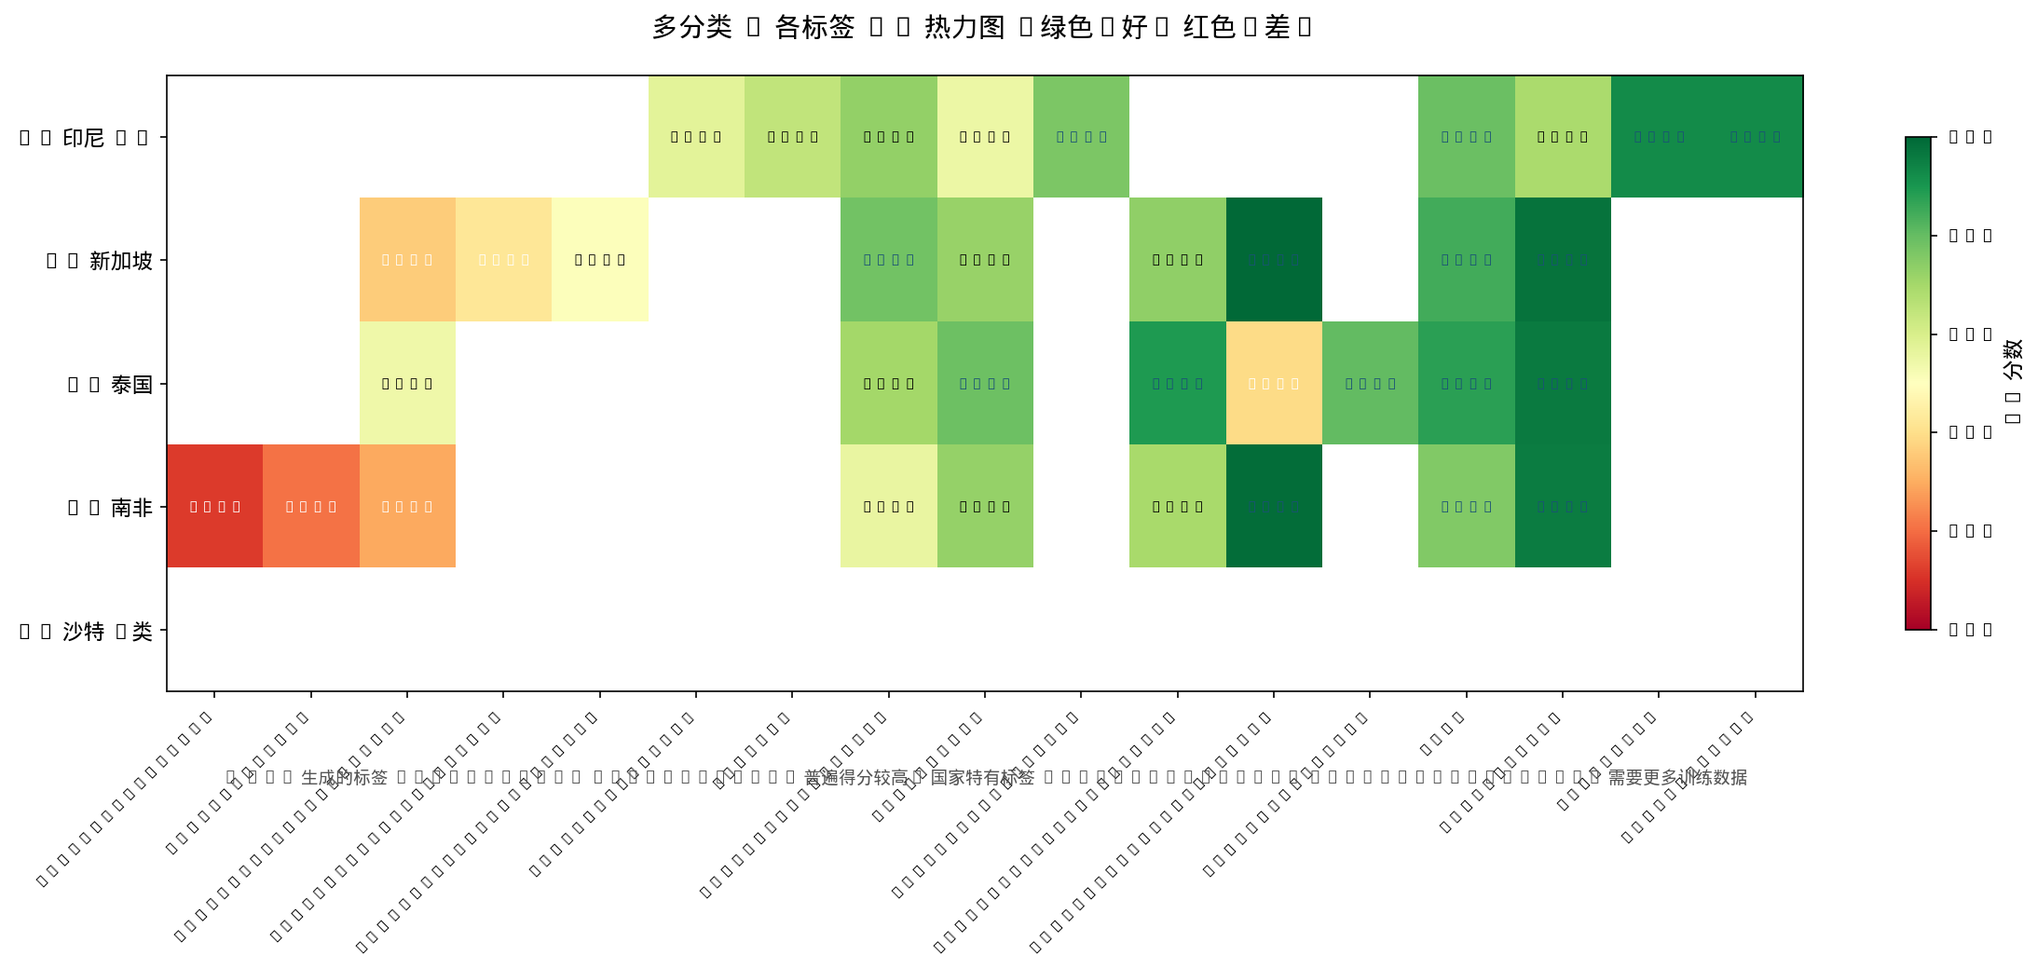
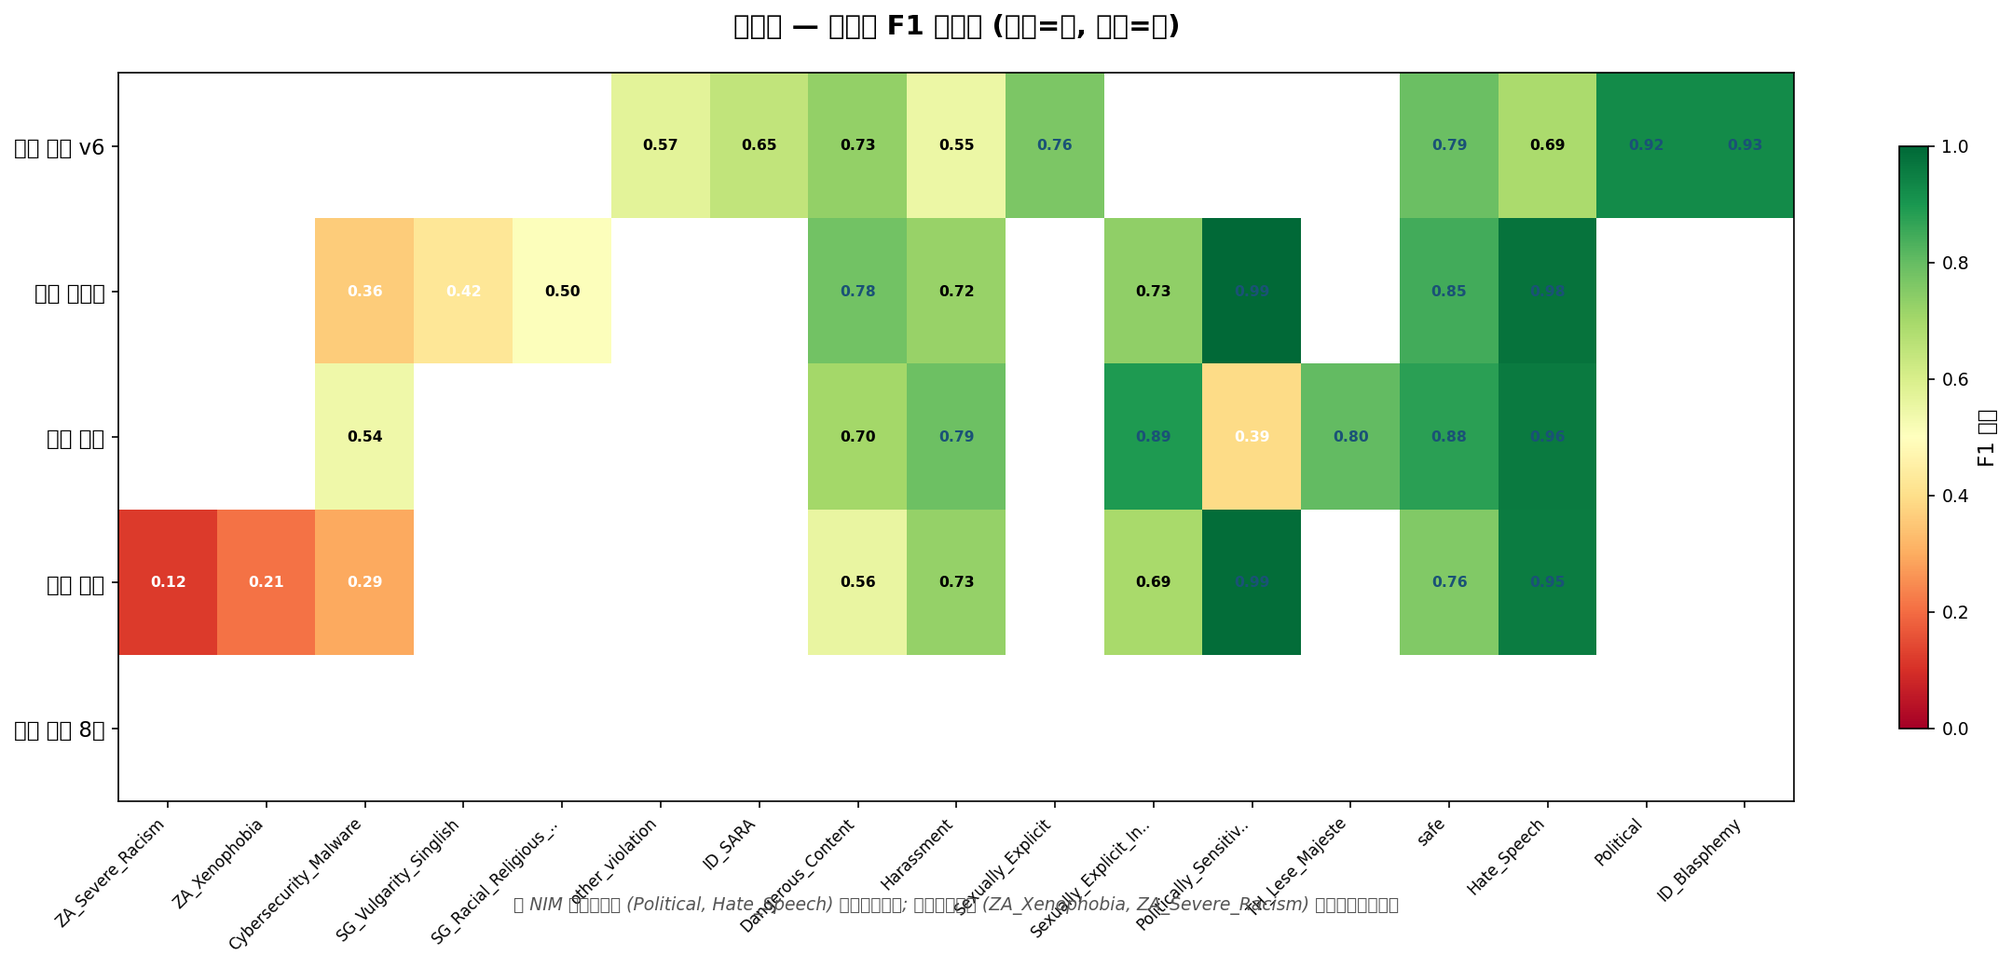
Fix Chinese font rendering in charts

diff --git a/charts/make_charts_cn.py b/charts/make_charts_cn.py
@@ -1,0 +1,385 @@
+#!/usr/bin/env python3
+"""生成所有模型对比图表 — 中文版"""
+import json, os, numpy as np, pandas as pd
+import matplotlib
+matplotlib.use('Agg')
+import matplotlib.pyplot as plt
+import matplotlib.font_manager as fm
+
+# Font stack: DejaVu for Latin, Droid for CJK
+fm.fontManager.addfont('/usr/share/fonts/truetype/droid/DroidSansFallbackFull.ttf')
+plt.rcParams['font.sans-serif'] = ['DejaVu Sans', 'Droid Sans Fallback']
+plt.rcParams['font.family'] = 'sans-serif'
+plt.rcParams['font.size'] = 9
+plt.rcParams['axes.unicode_minus'] = False
+
+OUT = "/home/ninini/Agents/Colloation_data/Training/model_reports/charts"
+os.makedirs(OUT, exist_ok=True)
+
+# ── Data ──────────────────────────────────────────
+BIN_DIR = "/home/ninini/Agents/Colloation_data/Training/binary_8countries"
+COUNTRIES = ['SA','BR','MX','ID','SG','TH','TR','ZA']
+C_NAMES = {'SA':'沙特','BR':'巴西','MX':'墨西哥','ID':'印尼','SG':'新加坡','TH':'泰国','TR':'土耳其','ZA':'南非'}
+
+ft, lr = {}, {}
+for c in COUNTRIES:
+    for store, method in [(ft,'fullft'),(lr,'lora')]:
+        p = f"{BIN_DIR}/{c}_{method}/metrics.json"
+        if os.path.exists(p): store[c] = json.load(open(p))
+
+ml_data = json.load(open(f"{'/home/ninini/Agents/Colloation_data/Training/multi_lora'}/all_metrics.json"))
+ad_data = json.load(open(f"{'/home/ninini/Agents/Colloation_data/Training/adapter'}/all_metrics.json"))
+
+mc = {}
+for code, path in [
+    ('🇮🇩 印尼 v6','/home/ninini/Agents/Colloation_data/Training/id_data/models_v6/final_results.json'),
+    ('🇸🇬 新加坡','/home/ninini/Agents/Colloation_data/Training/sg_data/models/results.json'),
+    ('🇹🇭 泰国','/home/ninini/Agents/Colloation_data/Training/th_data/models/results.json'),
+    ('🇿🇦 南非','/home/ninini/Agents/Colloation_data/Training/za_data/models/results.json'),
+]:
+    if os.path.exists(path): mc[code] = json.load(open(path))
+
+sa_best = json.load(open(f"{'/home/ninini/Agents/Colloation_data/Training/sa_multiclass'}/model_8class_fullft_20260610_113559/metrics.json"))
+mc['🇸🇦 沙特 8类'] = {'calibrated_f1': 0.829, 'per_class': sa_best}
+
+# ════════════════════════════════════════════════════
+# 图1: 二分类 — 8国 × 4方法 对比
+# ════════════════════════════════════════════════════
+fig, ax = plt.subplots(figsize=(18, 8))
+x = np.arange(len(COUNTRIES)); w = 0.2
+colors = ['#2ecc71','#3498db','#9b59b6','#e74c3c']
+labels_cn = ['全量微调 (Full FT)','LoRA 微调','Multi-LoRA 共享','Adapter']
+for i, (store, label, color) in enumerate([(ft,labels_cn[0],colors[0]),(lr,labels_cn[1],colors[1]),
+    (ml_data,labels_cn[2],colors[2]),(ad_data,labels_cn[3],colors[3])]):
+    vals = []
+    for c in COUNTRIES:
+        if c in store:
+            d = store[c] if isinstance(store[c],dict) else store[c]
+            vals.append(d.get('macro_f1',0))
+        else: vals.append(0)
+    bars = ax.bar(x + i*w, vals, w, label=label, color=color, edgecolor='white', linewidth=0.5)
+    for bar, v in zip(bars, vals):
+        if v > 0: ax.text(bar.get_x()+bar.get_width()/2, bar.get_height()+0.01, f'{v:.3f}',
+                         ha='center', va='bottom', fontsize=7, fontweight='bold')
+
+ax.set_xticks(x + 1.5*w)
+ax.set_xticklabels([C_NAMES[c] for c in COUNTRIES], fontsize=11)
+ax.set_ylabel('Macro F1', fontsize=13, fontweight='bold')
+ax.set_title('二分类模型对比 — 8 个国家 × 4 种训练方法', fontsize=15, fontweight='bold', pad=20)
+ax.legend(loc='lower right', fontsize=10, ncol=2)
+ax.set_ylim(0.60, 1.0)
+ax.grid(axis='y', alpha=0.3)
+ax.spines['top'].set_visible(False); ax.spines['right'].set_visible(False)
+
+# 添加解释
+ax.text(0.02, 1.12, '📊 全量微调 (Full FT) 在所有国家都表现最优，平均领先 LoRA +0.044',
+        transform=ax.transAxes, fontsize=10, color='#555', fontstyle='italic')
+ax.text(0.02, 1.07, '   新加坡 (SG) 的二分类准确率最高 (0.919)，得益于数据量大且 Singlish 特征明显',
+        transform=ax.transAxes, fontsize=10, color='#555', fontstyle='italic')
+
+plt.tight_layout()
+plt.savefig(f'{OUT}/01_binary_comparison_cn.png', dpi=150, bbox_inches='tight')
+plt.close()
+print("✅ 图1: 二分类对比")
+
+# ════════════════════════════════════════════════════
+# 图2: 多分类 — F1 排名
+# ════════════════════════════════════════════════════
+fig, ax = plt.subplots(figsize=(12, 6))
+mc_names = list(mc.keys())
+mc_f1s = [mc[k].get('calibrated_f1', mc[k].get('calibrated_macro_f1', mc[k].get('macro_f1',0))) for k in mc_names]
+mc_lbls = [mc[k].get('labels', mc[k].get('n_labels','?')) for k in mc_names]
+colors_mc = ['#27ae60','#3498db','#f39c12','#9b59b6','#e74c3c']
+
+bars = ax.barh(range(len(mc_names)), mc_f1s, color=colors_mc[:len(mc_names)], height=0.55, edgecolor='white')
+for i, (bar, v, lbl) in enumerate(zip(bars, mc_f1s, mc_lbls)):
+    ax.text(bar.get_width() + 0.01, bar.get_y()+bar.get_height()/2, f'{v:.3f}',
+            va='center', fontsize=14, fontweight='bold', color='#2c3e50')
+    ax.text(0.02, bar.get_y()+bar.get_height()/2, f'{mc_names[i]}  ({lbl} 类, {v*100:.1f}%)',
+            va='center', fontsize=11, color='white', fontweight='bold')
+ax.set_xlim(0, max(mc_f1s)*1.3)
+ax.set_title('多分类模型 — Macro F1 排名', fontsize=15, fontweight='bold', pad=15)
+ax.grid(axis='x', alpha=0.3)
+ax.spines['top'].set_visible(False); ax.spines['right'].set_visible(False); ax.spines['left'].set_visible(False)
+ax.set_yticks([])
+
+# 解释
+ax.text(0.02, -0.12, '📊 泰国 (TH) 的 F1 意外高于印尼 (ID)，可能是因为标签更少 (8 vs 9) 且数据噪音更低',
+        transform=ax.transAxes, fontsize=10, color='#555', fontstyle='italic')
+ax.text(0.02, -0.18, '   沙特 (SA) 使用全量微调 (无 LoRA) 达到最高分，但需要 1.1GB 模型',
+        transform=ax.transAxes, fontsize=10, color='#555', fontstyle='italic')
+
+plt.tight_layout()
+plt.savefig(f'{OUT}/02_multiclass_ranking_cn.png', dpi=150, bbox_inches='tight')
+plt.close()
+print("✅ 图2: 多分类排名")
+
+# ════════════════════════════════════════════════════
+# 图3: 多分类 — Per-Class F1 热力图
+# ════════════════════════════════════════════════════
+all_labels = set()
+for k, d in mc.items():
+    if 'per_class' in d:
+        for l in d['per_class']:
+            if isinstance(d['per_class'][l], dict) and 'f1-score' in d['per_class'][l]:
+                if l not in ['accuracy','macro avg','weighted avg']: all_labels.add(l)
+
+label_avg = {}
+for l in all_labels:
+    vals = []
+    for k, d in mc.items():
+        if 'per_class' in d and l in d['per_class'] and isinstance(d['per_class'][l], dict):
+            vals.append(d['per_class'][l].get('f1-score', 0))
+    if vals: label_avg[l] = np.mean(vals)
+sorted_labels = sorted(label_avg.keys(), key=lambda x: label_avg[x])
+
+heatmap_data = []
+for k in mc_names:
+    d = mc[k]; row = []
+    for l in sorted_labels:
+        if 'per_class' in d and l in d['per_class'] and isinstance(d['per_class'][l], dict):
+            row.append(d['per_class'][l].get('f1-score', 0))
+        else: row.append(np.nan)
+    heatmap_data.append(row)
+
+# Shorten labels for display
+short_labels = []
+for l in sorted_labels:
+    if len(l) > 22: short_labels.append(l[:20]+'..')
+    else: short_labels.append(l)
+
+fig, ax = plt.subplots(figsize=(16, 7))
+im = ax.imshow(heatmap_data, cmap='RdYlGn', aspect='auto', vmin=0, vmax=1)
+ax.set_xticks(range(len(sorted_labels)))
+ax.set_xticklabels(short_labels, rotation=45, ha='right', fontsize=8)
+ax.set_yticks(range(len(mc_names)))
+ax.set_yticklabels(mc_names, fontsize=11)
+for i in range(len(mc_names)):
+    for j in range(len(sorted_labels)):
+        v = heatmap_data[i][j]
+        if not np.isnan(v):
+            color = 'white' if v < 0.45 else ('black' if v < 0.75 else '#1a5276')
+            ax.text(j, i, f'{v:.2f}', ha='center', va='center', fontsize=7.5, color=color, fontweight='bold')
+cbar = plt.colorbar(im, ax=ax, shrink=0.8)
+cbar.set_label('F1 分数', fontsize=11)
+
+ax.set_title('多分类 — 各标签 F1 热力图 (绿色=好, 红色=差)', fontsize=14, fontweight='bold', pad=20)
+ax.text(0.5, -0.15, '📊 NIM 生成的标签 (Political, Hate_Speech) 普遍得分较高; 国家特有标签 (ZA_Xenophobia, ZA_Severe_Racism) 需要更多训练数据',
+        transform=ax.transAxes, fontsize=9, color='#555', fontstyle='italic', ha='center')
+
+plt.tight_layout()
+plt.savefig(f'{OUT}/03_multiclass_heatmap_cn.png', dpi=150, bbox_inches='tight')
+plt.close()
+print("✅ 图3: 热力图")
+
+# ════════════════════════════════════════════════════
+# 图4: 印尼模型演进
+# ════════════════════════════════════════════════════
+fig, ax = plt.subplots(figsize=(11, 7))
+versions = ['v1\n全量微调\n8类/38K', 'v1\nLoRA\n8类/38K', 'v2\nLSD蒸馏\n9类/38K', 'v5\n2种子集成\n9类/42K', 'v6\n标签订阅\n9类/46K']
+f1_vals = [0.692, 0.690, 0.684, 0.709, 0.732]
+colors_id = ['#95a5a6','#95a5a6','#3498db','#f39c12','#27ae60']
+bars = ax.bar(range(len(versions)), f1_vals, color=colors_id, width=0.55, edgecolor='white', linewidth=1.5)
+
+for bar, v, ver in zip(bars, f1_vals, versions):
+    ax.text(bar.get_x()+bar.get_width()/2, bar.get_height()+0.003, f'{v:.3f}',
+            ha='center', fontsize=13, fontweight='bold')
+
+ax.set_xticks(range(len(versions)))
+ax.set_xticklabels(versions, fontsize=9, linespacing=1.2)
+ax.set_ylabel('Macro F1', fontsize=12, fontweight='bold')
+ax.set_title('🇮🇩 印尼 (ID) 多分类模型演进路线', fontsize=15, fontweight='bold', pad=15)
+ax.set_ylim(0.65, 0.78)
+ax.grid(axis='y', alpha=0.3)
+ax.spines['top'].set_visible(False); ax.spines['right'].set_visible(False)
+
+# Annotations
+ax.annotate('+2,500 ID_SARA\nNIM 生成数据', xy=(3, 0.709), xytext=(1, 0.765),
+            arrowprops=dict(arrowstyle='->', color='#e74c3c', lw=1.5), fontsize=9, color='#c0392b', fontweight='bold')
+ax.annotate('+2,000 Dangerous\n+1,500 Hate_Speech\nNIM 生成数据', xy=(4, 0.732), xytext=(2.5, 0.765),
+            arrowprops=dict(arrowstyle='->', color='#27ae60', lw=1.5), fontsize=9, color='#1e8449', fontweight='bold')
+
+ax.text(0.5, -0.18, '📊 每次 NIM 生成数据补充都带来显著提升: ID_SARA +0.20, Dangerous +0.15, Hate_Speech +0.09',
+        transform=ax.transAxes, fontsize=10, color='#555', fontstyle='italic', ha='center')
+ax.text(0.5, -0.24, '   LSD 蒸馏 (v2) 提升不明显 (-0.008) 且训练速度慢 5 倍，不推荐使用',
+        transform=ax.transAxes, fontsize=10, color='#555', fontstyle='italic', ha='center')
+
+plt.tight_layout()
+plt.savefig(f'{OUT}/04_id_evolution_cn.png', dpi=150, bbox_inches='tight')
+plt.close()
+print("✅ 图4: ID 演进")
+
+# ════════════════════════════════════════════════════
+# 图5: 综合仪表盘 (6 宫格)
+# ════════════════════════════════════════════════════
+fig = plt.figure(figsize=(20, 14))
+gs = fig.add_gridspec(2, 3, hspace=0.35, wspace=0.3)
+
+# 5a: Full FT vs LoRA F1 差距
+ax1 = fig.add_subplot(gs[0, 0])
+diffs = []
+for c in COUNTRIES:
+    if c in ft and c in lr:
+        diffs.append({'country':C_NAMES[c], 'ft':ft[c]['macro_f1'], 'lr':lr[c]['macro_f1'],
+                      'gap':ft[c]['macro_f1']-lr[c]['macro_f1']})
+df_diff = pd.DataFrame(diffs).sort_values('gap', ascending=False)
+colors_gap = ['#e74c3c' if x > 0.03 else '#f39c12' for x in df_diff['gap']]
+bars = ax1.barh(df_diff['country'], df_diff['gap'], color=colors_gap, height=0.6, edgecolor='white')
+for bar, v in zip(bars, df_diff['gap']):
+    ax1.text(bar.get_width() + 0.002, bar.get_y()+bar.get_height()/2, f'{v:.3f}',
+            va='center', fontsize=10, fontweight='bold')
+ax1.axvline(x=0, color='black', linewidth=0.8)
+ax1.set_title('Full FT vs LoRA: 性能差距', fontsize=12, fontweight='bold')
+ax1.set_xlabel('Macro F1 差异 (Full FT - LoRA)')
+ax1.grid(axis='x', alpha=0.3)
+ax1.spines['top'].set_visible(False); ax1.spines['right'].set_visible(False)
+
+# 5b: 模型大小对比
+ax2 = fig.add_subplot(gs[0, 1])
+sizes = {'全量微调 (单国)': 1120, '全量微调 (8国)': 8960,
+         'LoRA 适配器': 3, 'Multi-LoRA 适配器': 2.4,
+         'Multi-LoRA (8国+基座)': 1140, '多分类 LoRA': 2.4}
+cols_size = ['#e74c3c','#c0392b','#3498db','#9b59b6','#8e44ad','#27ae60']
+ax2.barh(list(sizes.keys()), list(sizes.values()), color=cols_size, height=0.55, edgecolor='white')
+for i, (k, v) in enumerate(sizes.items()):
+    label = f'{v} MB' if v < 1000 else f'{v/1000:.1f} GB'
+    ax2.text(v+1 if v<100 else v+50, i, label, va='center', fontsize=10, fontweight='bold')
+ax2.set_title('模型存储大小对比 (MB)', fontsize=12, fontweight='bold')
+ax2.set_xscale('log'); ax2.set_xlim(0.5, 20000)
+ax2.grid(axis='x', alpha=0.3)
+ax2.spines['top'].set_visible(False); ax2.spines['right'].set_visible(False)
+
+# 5c: Clean vs Violation F1
+ax3 = fig.add_subplot(gs[0, 2])
+for c in COUNTRIES:
+    if c in ft:
+        ax3.scatter(ft[c]['clean']['f1'], ft[c]['violation']['f1'], s=150, c='#27ae60',
+                  edgecolors='white', linewidth=1.5, zorder=5)
+        ax3.annotate(f'FT-{C_NAMES[c]}', (ft[c]['clean']['f1'], ft[c]['violation']['f1']),
+                   textcoords="offset points", xytext=(6,4), fontsize=8, fontweight='bold')
+    if c in lr:
+        ax3.scatter(lr[c]['clean']['f1'], lr[c]['violation']['f1'], s=100, c='#3498db',
+                  edgecolors='white', linewidth=1, zorder=4, alpha=0.7)
+ax3.plot([0.5,1],[0.5,1], '--', color='gray', alpha=0.3)
+ax3.set_xlabel('安全内容 F1', fontsize=11); ax3.set_ylabel('违规内容 F1', fontsize=11)
+ax3.set_title('安全 vs 违规: F1 权衡', fontsize=12, fontweight='bold')
+ax3.set_xlim(0.65, 1.0); ax3.set_ylim(0.65, 1.0); ax3.grid(alpha=0.3)
+ax3.spines['top'].set_visible(False); ax3.spines['right'].set_visible(False)
+
+# 5d: 违规召回率 TOP 排名
+ax4 = fig.add_subplot(gs[1, 0])
+viol_all = []
+for c in COUNTRIES:
+    if c in ft: v=ft[c]['violation']; viol_all.append((v['recall'], C_NAMES[c], 'Full FT', v['f1']))
+    if c in lr: v=lr[c]['violation']; viol_all.append((v['recall'], C_NAMES[c], 'LoRA', v['f1']))
+    v=ml_data[c]['violation']; viol_all.append((v['recall'], C_NAMES[c], 'MLoRA', v['f1']))
+viol_all.sort(reverse=True); top10 = viol_all[:12]
+ax4.barh([f'{c}({m})' for _,c,m,_ in top10], [r for r,_,_,_ in top10],
+         color=['#27ae60','#3498db','#9b59b6']*4, height=0.6, edgecolor='white')
+for i, (r,_,_,f1) in enumerate(top10):
+    ax4.text(r+0.005, i, f'召回:{r:.3f}  F1:{f1:.3f}', va='center', fontsize=8)
+ax4.set_title('违规召回率 TOP 12', fontsize=12, fontweight='bold')
+ax4.set_xlim(0.75, 1.05); ax4.grid(axis='x', alpha=0.3)
+ax4.spines['top'].set_visible(False); ax4.spines['right'].set_visible(False)
+
+# 5e: ID v5→v6 每类提升
+ax5 = fig.add_subplot(gs[1, 1])
+v5_d = json.load(open('/home/ninini/Agents/Colloation_data/Training/id_data/models_v5/final_results.json'))
+v6_d = json.load(open('/home/ninini/Agents/Colloation_data/Training/id_data/models_v6/final_results.json'))
+labels_comp = ['ID_SARA\n(宗教种族)','Dangerous\n(危险内容)','Hate_Speech\n(仇恨言论)','Harassment\n(骚扰)','Sexually\nExplicit','Political\n(政治)','ID_Blasphemy\n(亵渎)','safe\n(安全)','other\n(其他)']
+v5_vals = [v5_d['per_class'].get(l.split('\n')[0],{}).get('f1-score',0) for l in labels_comp]
+v6_vals = [v6_d['per_class'].get(l.split('\n')[0],{}).get('f1-score',0) for l in labels_comp]
+x = np.arange(len(labels_comp)); w = 0.35
+ax5.bar(x-w/2, v5_vals, w, label='v5 (42K条)', color='#f39c12', edgecolor='white')
+ax5.bar(x+w/2, v6_vals, w, label='v6 (46K条)', color='#27ae60', edgecolor='white')
+for i in range(len(labels_comp)):
+    diff = v6_vals[i] - v5_vals[i]
+    if diff > 0.03:
+        ax5.annotate(f'+{diff:.2f}', (i, v6_vals[i]+0.03), ha='center', fontsize=9, color='#e74c3c', fontweight='bold')
+ax5.set_xticks(x); ax5.set_xticklabels(labels_comp, rotation=45, ha='right', fontsize=7.5)
+ax5.legend(fontsize=9); ax5.set_ylim(0,1.1)
+ax5.set_title('印尼 v5 → v6: 各类别 F1 提升', fontsize=12, fontweight='bold')
+ax5.grid(axis='y', alpha=0.3)
+ax5.spines['top'].set_visible(False); ax5.spines['right'].set_visible(False)
+
+# 5f: 数据量 vs 模型性能
+ax6 = fig.add_subplot(gs[1, 2])
+mc_rows = {'印尼 v6':45753,'新加坡':25543,'泰国':14751,'南非':21329}
+mc_f1_dict = {}
+for k in mc_names:
+    for name, rows in mc_rows.items():
+        if name.split()[0] in k: mc_f1_dict[name] = mc[k].get('calibrated_f1',mc[k].get('calibrated_macro_f1',0))
+colors_pt = ['#27ae60','#3498db','#f39c12','#e74c3c']
+for i, (k, rows) in enumerate(mc_rows.items()):
+    f1 = mc_f1_dict.get(k, 0)
+    ax6.scatter(rows/1000, f1, s=250, c=colors_pt[i], edgecolors='white', linewidth=2, zorder=5)
+    ax6.annotate(f'{k}\n{rows/1000:.0f}K条, F1={f1:.3f}', (rows/1000, f1),
+                textcoords="offset points", xytext=(12,15), fontsize=9, fontweight='bold')
+ax6.set_xlabel('训练数据量 (千条)', fontsize=11)
+ax6.set_ylabel('Macro F1', fontsize=11)
+ax6.set_title('数据量 vs 模型性能', fontsize=12, fontweight='bold')
+ax6.grid(alpha=0.3)
+ax6.spines['top'].set_visible(False); ax6.spines['right'].set_visible(False)
+
+# 总标题
+fig.suptitle('多语言内容审核模型 — 综合对比仪表盘',
+             fontsize=17, fontweight='bold', y=1.01)
+fig.text(0.5, 0.01, '基座模型: microsoft/mdeberta-v3-base | LoRA: r=16 α=32 | Label Smoothing: 0.05 | 训练环境: AMD RX 9070 XT ROCm',
+         ha='center', fontsize=10, color='#888', fontstyle='italic')
+
+plt.savefig(f'{OUT}/05_dashboard_cn.png', dpi=150, bbox_inches='tight')
+plt.close()
+print("✅ 图5: 综合仪表盘")
+
+# ════════════════════════════════════════════════════
+# 图6: 数据生成效果 — 关键提升
+# ════════════════════════════════════════════════════
+fig, ax = plt.subplots(figsize=(12, 7))
+improvements = [
+    ('ID_SARA\n(印尼宗教种族)', 0.42, 0.65, +0.23, 'NIM 生成\n+2,500 条'),
+    ('Dangerous_Content\n(危险内容)', 0.58, 0.73, +0.15, 'NIM 生成\n+2,000 条'),
+    ('Hate_Speech\n(仇恨言论)', 0.60, 0.69, +0.09, 'NIM 生成\n+1,500 条'),
+    ('ID_Blasphemy\n(印尼亵渎)', 0.89, 0.93, +0.04, '陪审团验证'),
+    ('Political\n(政治)', 0.92, 0.92, 0.00, '已饱和'),
+]
+
+y_pos = range(len(improvements))
+for i, (name, before, after, diff, note) in enumerate(improvements):
+    # Before bar
+    ax.barh(i+0.15, before, 0.3, color='#e74c3c', edgecolor='white', label='改进前' if i==0 else '')
+    # After bar
+    ax.barh(i-0.15, after, 0.3, color='#27ae60', edgecolor='white', label='改进后' if i==0 else '')
+    # Diff annotation
+    if diff > 0:
+        ax.text(max(before,after)+0.02, i, f'+{diff:.2f}', va='center', fontsize=12, color='#e74c3c', fontweight='bold')
+    # Note
+    ax.text(0.02, i+0.25, f'{note}', va='bottom', fontsize=8, color='#555', fontstyle='italic')
+
+ax.set_yticks(range(len(improvements)))
+ax.set_yticklabels([i[0] for i in improvements], fontsize=10)
+ax.set_xlim(0, 1.1)
+ax.set_xlabel('F1 分数', fontsize=12, fontweight='bold')
+ax.set_title('印尼 (ID) — NIM 数据生成对弱势类别的提升效果', fontsize=14, fontweight='bold', pad=15)
+ax.legend(loc='lower right', fontsize=10)
+ax.grid(axis='x', alpha=0.3)
+ax.spines['top'].set_visible(False); ax.spines['right'].set_visible(False)
+
+ax.text(0.5, -0.15, '📊 NIM API (llama-4-maverick, mistral-large, qwen3-next) 生成的高质量合成数据是提升模型的最有效方法',
+        transform=ax.transAxes, fontsize=10, color='#555', fontstyle='italic', ha='center')
+ax.text(0.5, -0.21, '   ID_SARA 提升最大 (+0.23)，因为原始数据只有 2,983 条且与 Harassment/Hate_Speech 高度混淆',
+        transform=ax.transAxes, fontsize=10, color='#555', fontstyle='italic', ha='center')
+
+plt.tight_layout()
+plt.savefig(f'{OUT}/06_data_augmentation_impact_cn.png', dpi=150, bbox_inches='tight')
+plt.close()
+print("✅ 图6: 数据增强效果")
+
+# ════════════════════════════════════════════════════
+# 汇总
+# ════════════════════════════════════════════════════
+print(f"\n{'='*60}")
+print(f"所有图表已保存到: {OUT}")
+for f in sorted(os.listdir(OUT)):
+    if f.endswith('.png'):
+        sz = os.path.getsize(f"{OUT}/{f}")/1024
+        print(f"  {f} ({sz:.0f}KB)")
